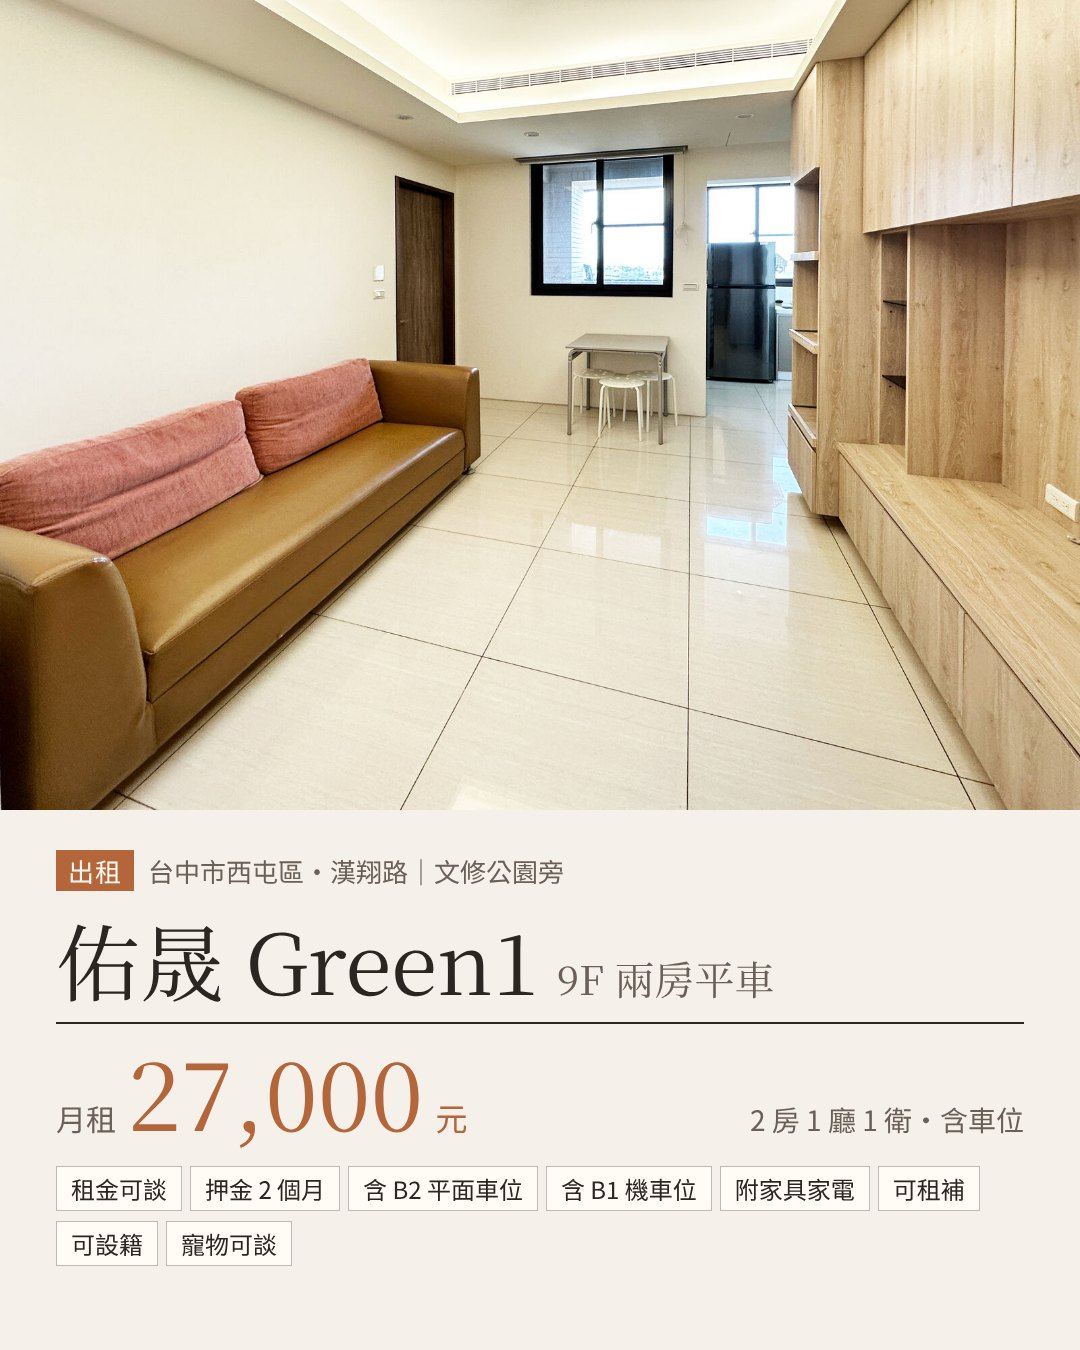
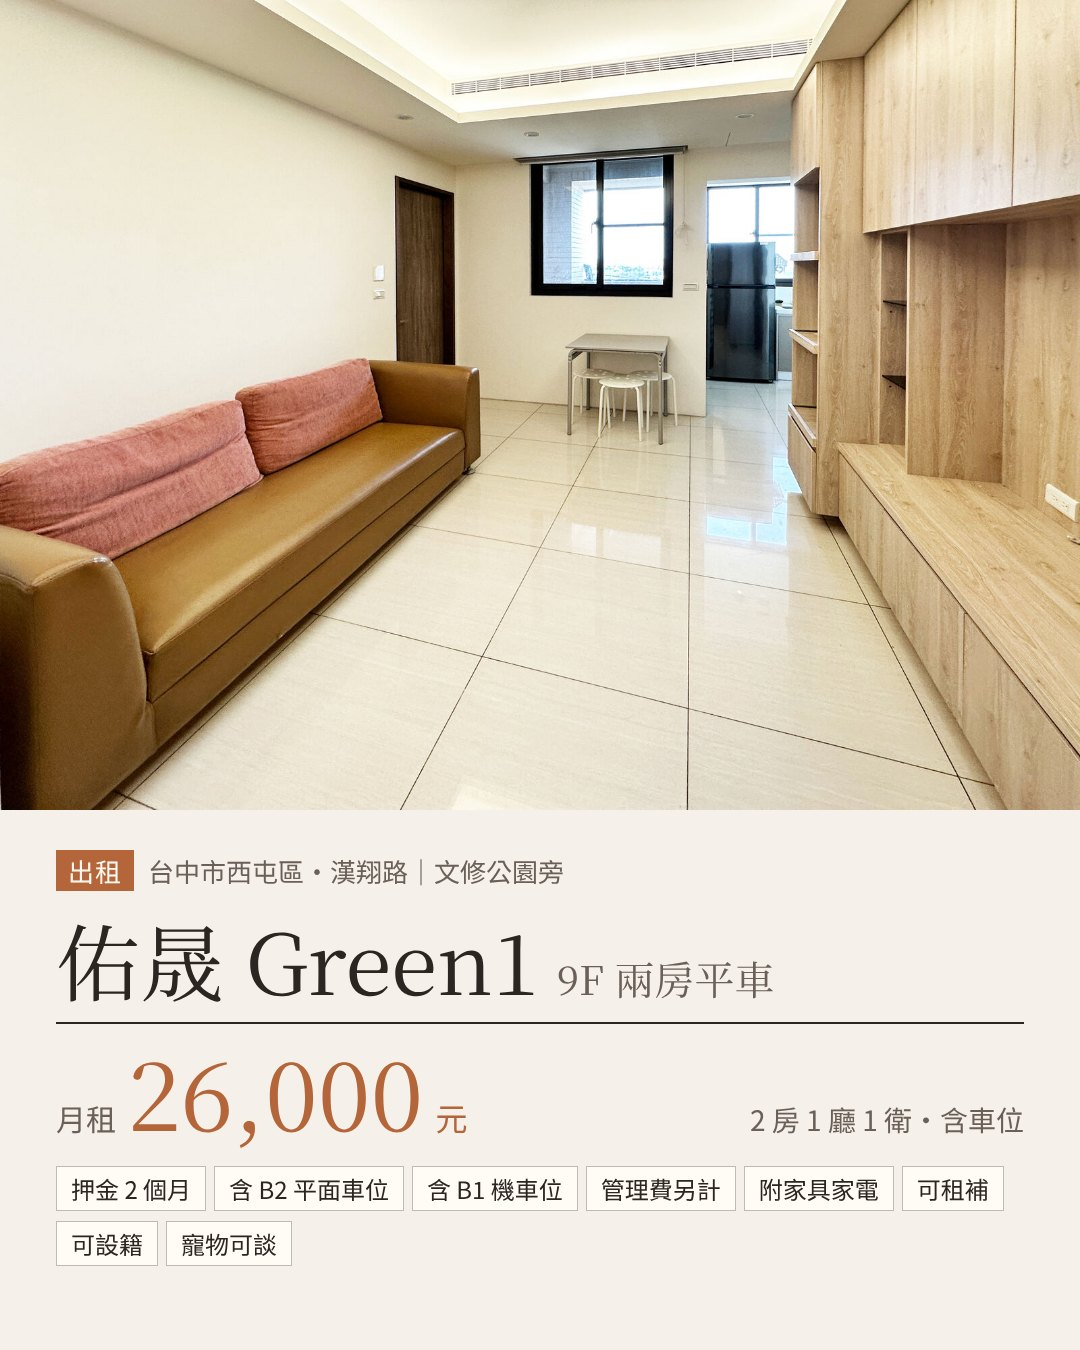
佑晟 Green1：月租改 26,000（管理費另計），移除租金可談
Claude-Session: https://claude.ai/code/session_01K5adFBVAKuvxtDEyav5gfz

Changed region(s): [[0.1222, 0.8711, 0.9167, 0.9022], [0.1528, 0.7778, 0.2139, 0.84], [0.0611, 0.8711, 0.0917, 0.9022]]

diff --git a/youcheng-green1-9f/index.html b/youcheng-green1-9f/index.html
@@ -3,18 +3,18 @@
 <head>
 <meta charset="utf-8">
 <meta name="viewport" content="width=device-width, initial-scale=1, viewport-fit=cover">
-<title>出租｜佑晟 Green1 9F 兩房平車・月租 27,000（可談）</title>
-<meta name="description" content="台中西屯文修公園旁・逢甲商圈、中科・2 房 1 廳 1 衛附家具家電・含 B2 平面車位與 B1 機車位・可租補、可設籍、可開伙・租金可談｜利寶不動產 王茂康">
+<title>出租｜佑晟 Green1 9F 兩房平車・月租 26,000</title>
+<meta name="description" content="台中西屯文修公園旁・逢甲商圈、中科・2 房 1 廳 1 衛附家具家電・含 B2 平面車位與 B1 機車位（管理費另計）・可租補、可設籍、可開伙｜利寶不動產 王茂康">
 <meta property="og:type" content="website">
 <meta property="og:locale" content="zh_TW">
 <meta property="og:site_name" content="利寶不動產">
-<meta property="og:title" content="出租｜佑晟 Green1 9F 兩房平車・月租 27,000（可談）">
-<meta property="og:description" content="台中西屯文修公園旁・逢甲商圈、中科・2 房 1 廳 1 衛附家具家電・含 B2 平面車位與 B1 機車位・可租補、可設籍、可開伙・租金可談｜利寶不動產 王茂康">
+<meta property="og:title" content="出租｜佑晟 Green1 9F 兩房平車・月租 26,000">
+<meta property="og:description" content="台中西屯文修公園旁・逢甲商圈、中科・2 房 1 廳 1 衛附家具家電・含 B2 平面車位與 B1 機車位（管理費另計）・可租補、可設籍、可開伙｜利寶不動產 王茂康">
 <meta property="og:url" content="https://markwang1985.github.io/listings/youcheng-green1-9f/">
 <meta property="og:image" content="https://markwang1985.github.io/listings/youcheng-green1-9f/og-image.jpg">
 <meta property="og:image:width" content="1200">
 <meta property="og:image:height" content="630">
-<meta property="og:image:alt" content="佑晟 Green1 客廳與月租 27,000 元">
+<meta property="og:image:alt" content="佑晟 Green1 客廳與月租 26,000 元">
 <link rel="canonical" href="https://markwang1985.github.io/listings/youcheng-green1-9f/">
 <style>:root{color-scheme:light;padding-top:env(safe-area-inset-top,0px);padding-bottom:env(safe-area-inset-bottom,0px)}body{margin:0;font:14px/1.5 system-ui,-apple-system,sans-serif}img{max-width:100%}[hidden]{display:none!important}</style>
 </head>
@@ -228,11 +228,11 @@ dialog.lb button{font:inherit;font-size:13px;color:#F5F1EA;background:none;borde
 <div class="loc"><span class="tag">出租</span>台中市西屯區｜漢翔路・文修公園旁</div>
 <h1>佑晟 Green1<br>9 樓兩房平車</h1>
 <p class="lede">2021 年完工的 12 層電梯大樓，總戶數 92 戶，就在文修公園旁，往逢甲商圈、中科與水湳都近。本戶在 9 樓，2 房 1 廳 1 衛，間間開窗；系統櫃、沙發、床組與冰箱、冷氣、洗衣機都附，租金已含 B2 坡道平面車位與 B1 機車位。</p>
-<div class="rent"><div class="price"><span class="lab">月租</span><b>27,000</b><span class="unit">元</span></div><p class="dep">押金 2 個月（54,000 元）・含平面車位與機車位・租金可談</p></div>
+<div class="rent"><div class="price"><span class="lab">月租</span><b>26,000</b><span class="unit">元</span></div><p class="dep">押金 2 個月（52,000 元）・含平面車位與機車位・管理費另計</p></div>
 </section>
 <section class="copy detail">
 <div class="stats"><div class="stat"><b>16.59<small>坪</small></b><span>室內（主建物＋陽台）</span></div><div class="stat"><b>2<small>房</small>1<small>廳</small>1<small>衛</small></b><span>格局</span></div><div class="stat hl"><b>9<small>F</small></b><span>樓層／共 12F</span></div></div>
-<dl class="terms"><div><dt>租金</dt><dd>可談</dd></div><div><dt>租金含</dt><dd>平面車位・機車位</dd></div><div><dt>押金</dt><dd>2 個月</dd></div><div><dt>最短租期</dt><dd>1 年</dd></div><div><dt>租補</dt><dd>可申請・可設籍</dd></div><div><dt>寵物</dt><dd>可談・可開伙</dd></div></dl>
+<dl class="terms"><div><dt>租金含</dt><dd>平面車位・機車位</dd></div><div><dt>管理費</dt><dd>另計 3,308 元／月</dd></div><div><dt>押金</dt><dd>2 個月</dd></div><div><dt>最短租期</dt><dd>1 年</dd></div><div><dt>租補</dt><dd>可申請・可設籍</dd></div><div><dt>寵物</dt><dd>可談・可開伙</dd></div></dl>
 <ul class="legend"><li><i class="sw" style="background:var(--accent)"></i>本戶所在樓層（9F）</li><li><i class="sw" style="background:var(--surface)"></i>佑晟 Green1</li><li><i class="sw" style="background:var(--modelFace)"></i>周邊建物（建管套繪圖，依樓層數）</li><li><i class="sw" style="background:var(--road);border-color:var(--rule)"></i>道路</li><li><i class="sw" style="background:var(--sage)"></i>公園綠地</li></ul>
 <p class="notes">量體為示意。建物輪廓與樓層數依臺中市建管「建築物套繪圖」（建照套繪資料，可能與現況不同），高度以每層 3.2 m 推估；本戶為 B 戶。道路、公園與生活機能點依 OpenStreetMap。畫面外的地標以直線距離標示方向。地圖資料 © OpenStreetMap contributors。</p>
 </section>
@@ -621,7 +621,7 @@ dialog.lb button{font:inherit;font-size:13px;color:#F5F1EA;background:none;borde
 <section class="chap" id="contact" aria-labelledby="h-ct"><div class="chap-in">
 <div class="ch-head"><span class="ch-no">06</span><span>聯絡看屋</span></div>
 <h2 id="h-ct">想看屋，打電話或加 LINE 約時間</h2>
-<p class="ch-lede">空屋，隨時可入住；租金可談。看屋請前一天預約，告訴我方便的時段，我安排帶看。</p>
+<p class="ch-lede">空屋，隨時可入住。看屋請前一天預約，告訴我方便的時段，我安排帶看。</p>
 <div class="ct">
 <div class="card">
 <div class="who"><b>王茂康</b><span>利寶不動產</span></div>
@@ -629,7 +629,7 @@ dialog.lb button{font:inherit;font-size:13px;color:#F5F1EA;background:none;borde
 <div class="crow"><span class="t">LINE ID</span><span class="v" id="vLine">markwang0516</span><button type="button" data-copy="markwang0516" data-for="vLine">複製</button></div>
 <div class="acts"><a class="pri" href="https://line.me/ti/p/~markwang0516" target="_blank" rel="noopener">加 LINE 好友</a><a class="sec" href="tel:0921254793">撥打電話</a></div>
 </div>
-<ul class="recap" aria-label="租約重點"><li class="rent"><span>月租</span><span>27,000 元</span></li><li><span>月租</span><span>27,000 元（可談）</span></li><li><span>押金</span><span>2 個月（54,000 元）</span></li><li><span>租金包含</span><span>B2 平面車位・B1 機車位（管理費另計）</span></li><li><span>最短租期</span><span>1 年</span></li><li><span>租補／設籍</span><span>可申請租補・可設籍・可開伙・寵物可談</span></li></ul>
+<ul class="recap" aria-label="租約重點"><li class="rent"><span>月租</span><span>26,000 元</span></li><li><span>月租</span><span>26,000 元（管理費另計）</span></li><li><span>押金</span><span>2 個月（52,000 元）</span></li><li><span>租金包含</span><span>B2 平面車位・B1 機車位</span></li><li><span>管理費</span><span>每月 3,308 元，另計</span></li><li><span>最短租期</span><span>1 年</span></li><li><span>租補／設籍</span><span>可申請租補・可設籍・可開伙・寵物可談</span></li></ul>
 </div>
 <p class="ch-note">若撥號或 LINE 按鈕沒有反應，請直接複製號碼或 ID。本頁資訊以租賃契約及現場狀況為準。</p>
 </div></section>

diff --git a/index.html b/index.html
@@ -86,7 +86,7 @@ footer{border-top:1px solid var(--rule);padding:22px 0 36px;display:flex;flex-wr
 <span class="lic">台慶不動產漢翔利寶店｜經紀業：利寶不動產有限公司｜營業員：王茂康（113）登字459011號</span>
 </footer>
 <script>
-const ITEMS=[{"slug":"youcheng-green1-9f","name":"佑晟 Green1 9F 兩房平車","district":"西屯區","area":"漢翔路・文修公園旁","rent":27000,"size":"16.59 坪","sizeLabel":"室內（主建物＋陽台）","layout":"2 房 1 廳 1 衛","floor":"9F／共 12F","dep":"押金 2 個月（54,000 元）・含平面車位與機車位・租金可談","date":"1792402862","cover":"youcheng-green1-9f/img/living.jpg"},{"slug":"hankou-2f","name":"漢口路五段 全新裝修 2 房 2 廳 2 衛","district":"北區","area":"漢口路五段・崇德路口附近","rent":23000,"size":"20.85 坪","sizeLabel":"權狀坪數","layout":"2 房 2 廳 2 衛","floor":"2F／共 5F","dep":"押金 2 個月（46,000 元）・無管理費","date":"1792393483","cover":"hankou-2f/img/living.jpg"},{"slug":"huiyu-dunbei-9f","name":"惠宇敦北 丙棟 9F 三房平車","district":"北屯區","area":"南興路・機捷特區","rent":35000,"size":"28.62 坪","sizeLabel":"室內（主建物＋陽台）","layout":"3 房 2 廳 2 衛","floor":"9F／共 15F","dep":"押金 2 個月（70,000 元）・含管理費、平面車位","date":"1792393483","cover":"huiyu-dunbei-9f/img/living.jpg"},{"slug":"xiehe-fengfu-5f","name":"協和豐馥 A 棟 5F 全新四房平車","district":"清水區","area":"港新五路・台中港特定區","rent":26500,"size":"32.23 坪","sizeLabel":"室內（主建物＋陽台）","layout":"4 房 2 廳 2 衛","floor":"5F／共 15F","dep":"押金 2 個月（53,000 元）・含平面車位、機車位","date":"1792393483","cover":"xiehe-fengfu-5f/img/living.jpg"},{"slug":"xueshi-6f","name":"麥當勞學士大樓 6F 精裝套房","district":"北區","area":"學士路・柳川東路口","rent":12000,"size":"8.82 坪","sizeLabel":"權狀坪數","layout":"1 房 1 衛","floor":"6F／共 12F","dep":"押金 2 個月（24,000 元）・含管理費、水費、網路","date":"1792393483","cover":"xueshi-6f/img/cover.jpg"}];
+const ITEMS=[{"slug":"hankou-2f","name":"漢口路五段 全新裝修 2 房 2 廳 2 衛","district":"北區","area":"漢口路五段・崇德路口附近","rent":23000,"size":"20.85 坪","sizeLabel":"權狀坪數","layout":"2 房 2 廳 2 衛","floor":"2F／共 5F","dep":"押金 2 個月（46,000 元）・無管理費","date":"1793091066","cover":"hankou-2f/img/living.jpg"},{"slug":"huiyu-dunbei-9f","name":"惠宇敦北 丙棟 9F 三房平車","district":"北屯區","area":"南興路・機捷特區","rent":35000,"size":"28.62 坪","sizeLabel":"室內（主建物＋陽台）","layout":"3 房 2 廳 2 衛","floor":"9F／共 15F","dep":"押金 2 個月（70,000 元）・含管理費、平面車位","date":"1793091066","cover":"huiyu-dunbei-9f/img/living.jpg"},{"slug":"xiehe-fengfu-5f","name":"協和豐馥 A 棟 5F 全新四房平車","district":"清水區","area":"港新五路・台中港特定區","rent":26500,"size":"32.23 坪","sizeLabel":"室內（主建物＋陽台）","layout":"4 房 2 廳 2 衛","floor":"5F／共 15F","dep":"押金 2 個月（53,000 元）・含平面車位、機車位","date":"1793091066","cover":"xiehe-fengfu-5f/img/living.jpg"},{"slug":"xueshi-6f","name":"麥當勞學士大樓 6F 精裝套房","district":"北區","area":"學士路・柳川東路口","rent":12000,"size":"8.82 坪","sizeLabel":"權狀坪數","layout":"1 房 1 衛","floor":"6F／共 12F","dep":"押金 2 個月（24,000 元）・含管理費、水費、網路","date":"1793091066","cover":"xueshi-6f/img/cover.jpg"},{"slug":"youcheng-green1-9f","name":"佑晟 Green1 9F 兩房平車","district":"西屯區","area":"漢翔路・文修公園旁","rent":26000,"size":"16.59 坪","sizeLabel":"室內（主建物＋陽台）","layout":"2 房 1 廳 1 衛","floor":"9F／共 12F","dep":"押金 2 個月（52,000 元）・含平面車位與機車位・管理費另計","date":"1793091066","cover":"youcheng-green1-9f/img/living.jpg"}];
 const grid=document.getElementById('grid'),chips=document.getElementById('chips'),sortEl=document.getElementById('sort'),count=document.getElementById('count');
 let dist='全部';
 const esc=s=>String(s).replace(/[&<>"]/g,c=>({'&':'&amp;','<':'&lt;','>':'&gt;','"':'&quot;'}[c]));
